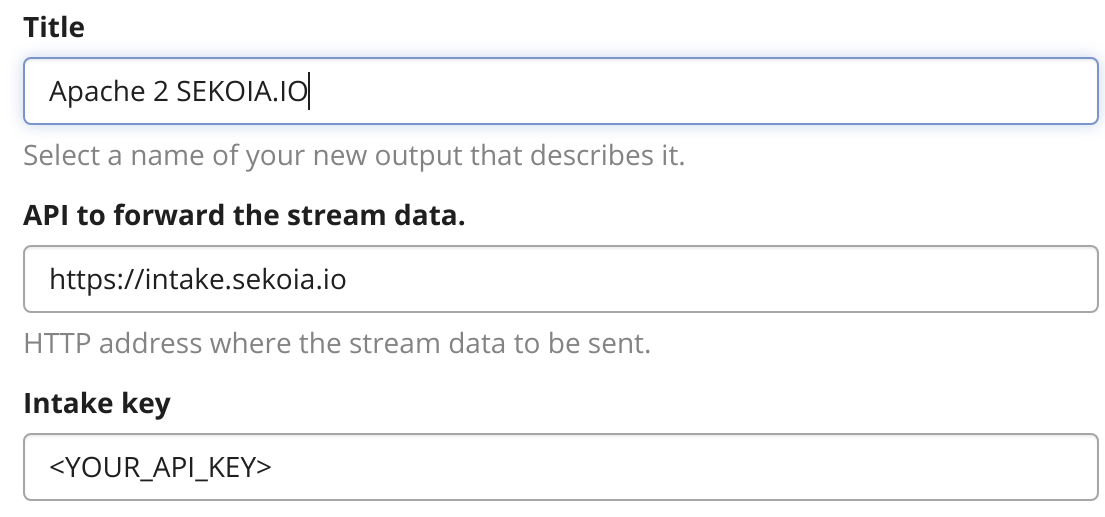
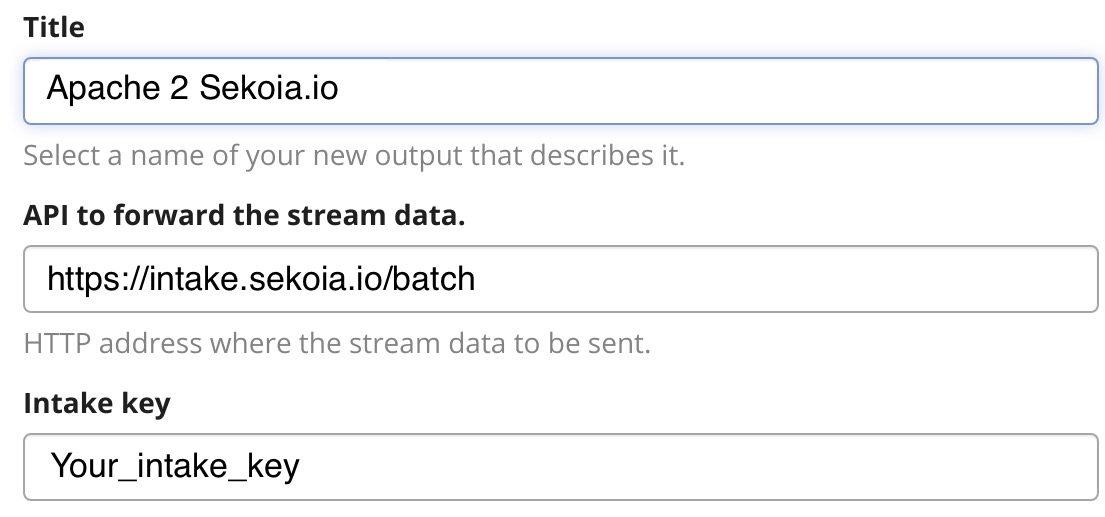
Change Image and doc with good path and intake key instead of API key

diff --git a/docs/xdr/features/collect/ingestion_methods/https/graylog.md b/docs/xdr/features/collect/ingestion_methods/https/graylog.md
@@ -72,7 +72,7 @@ Now that you have your logs in your stream, you need to configure an Output to s
 
 1. Go to `Streams`
 2. Identify your stream and click on `More Actions` > `Manage Outputs`
-3. Declare the output mode associated to the Sekoia.io stream with the type `com.plugin.HttpOutput` with the unique parameter `https://intake.sekoia.io` and your API key.
+3. Declare the output mode associated to the Sekoia.io stream with the type `com.plugin.HttpOutput` with the unique parameter `https://intake.sekoia.io/batch` and your intake key.
 
 ![image](/assets/operation_center/data_collection/ingestion_methods/graylog/graylog_output_declaration.png)
 
